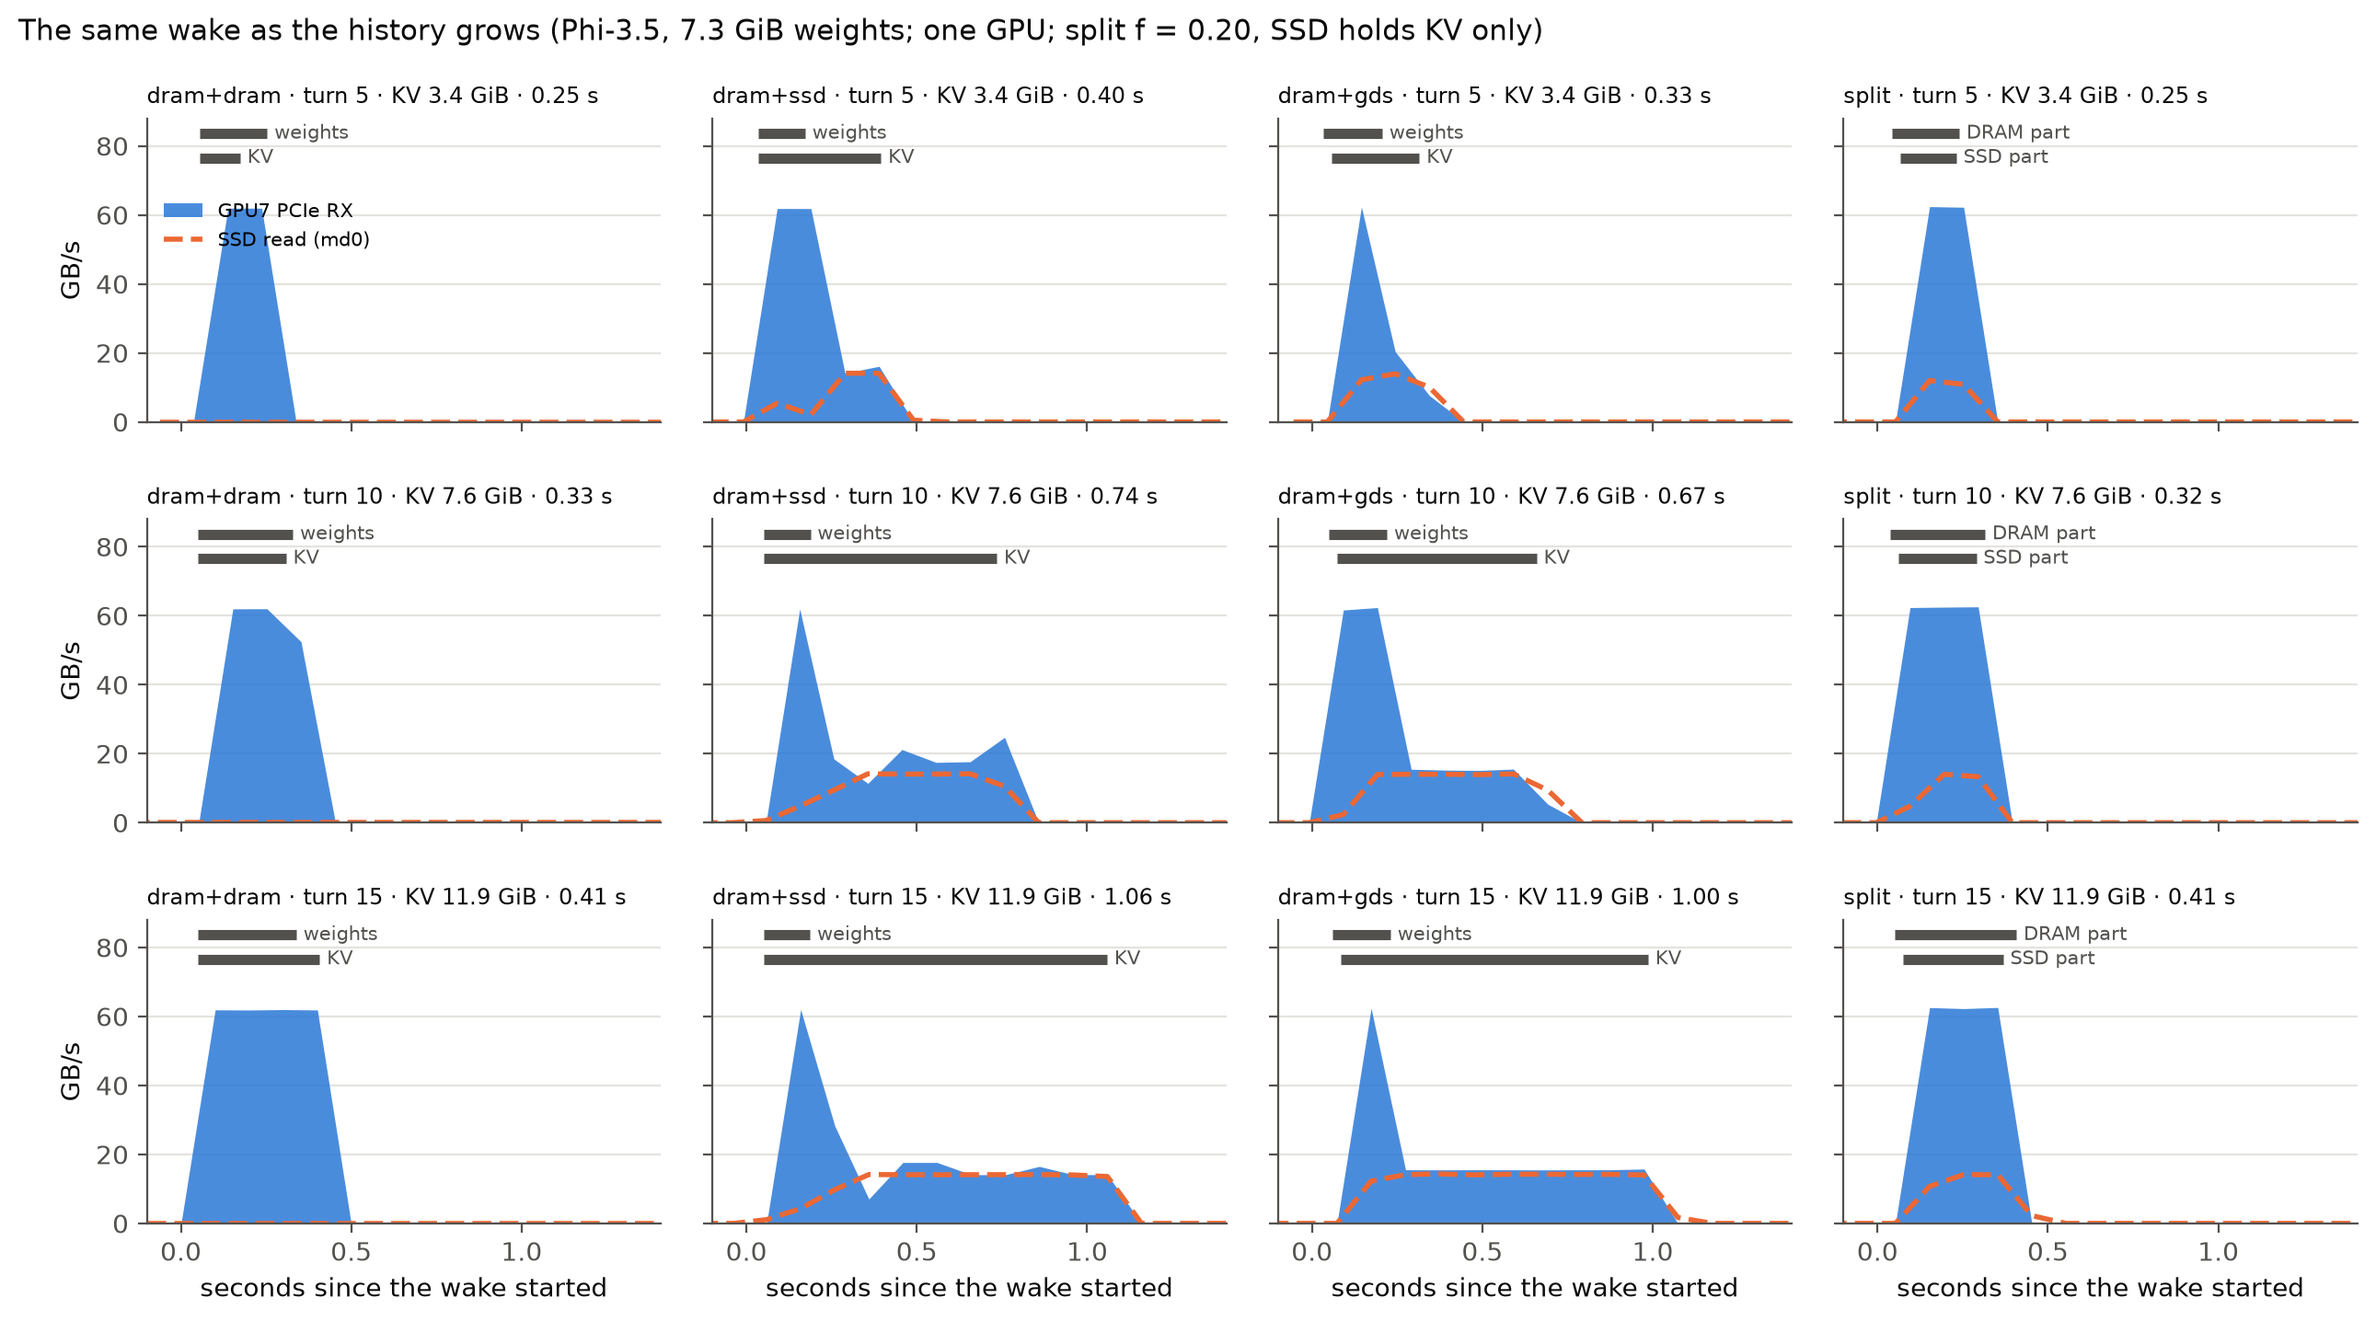
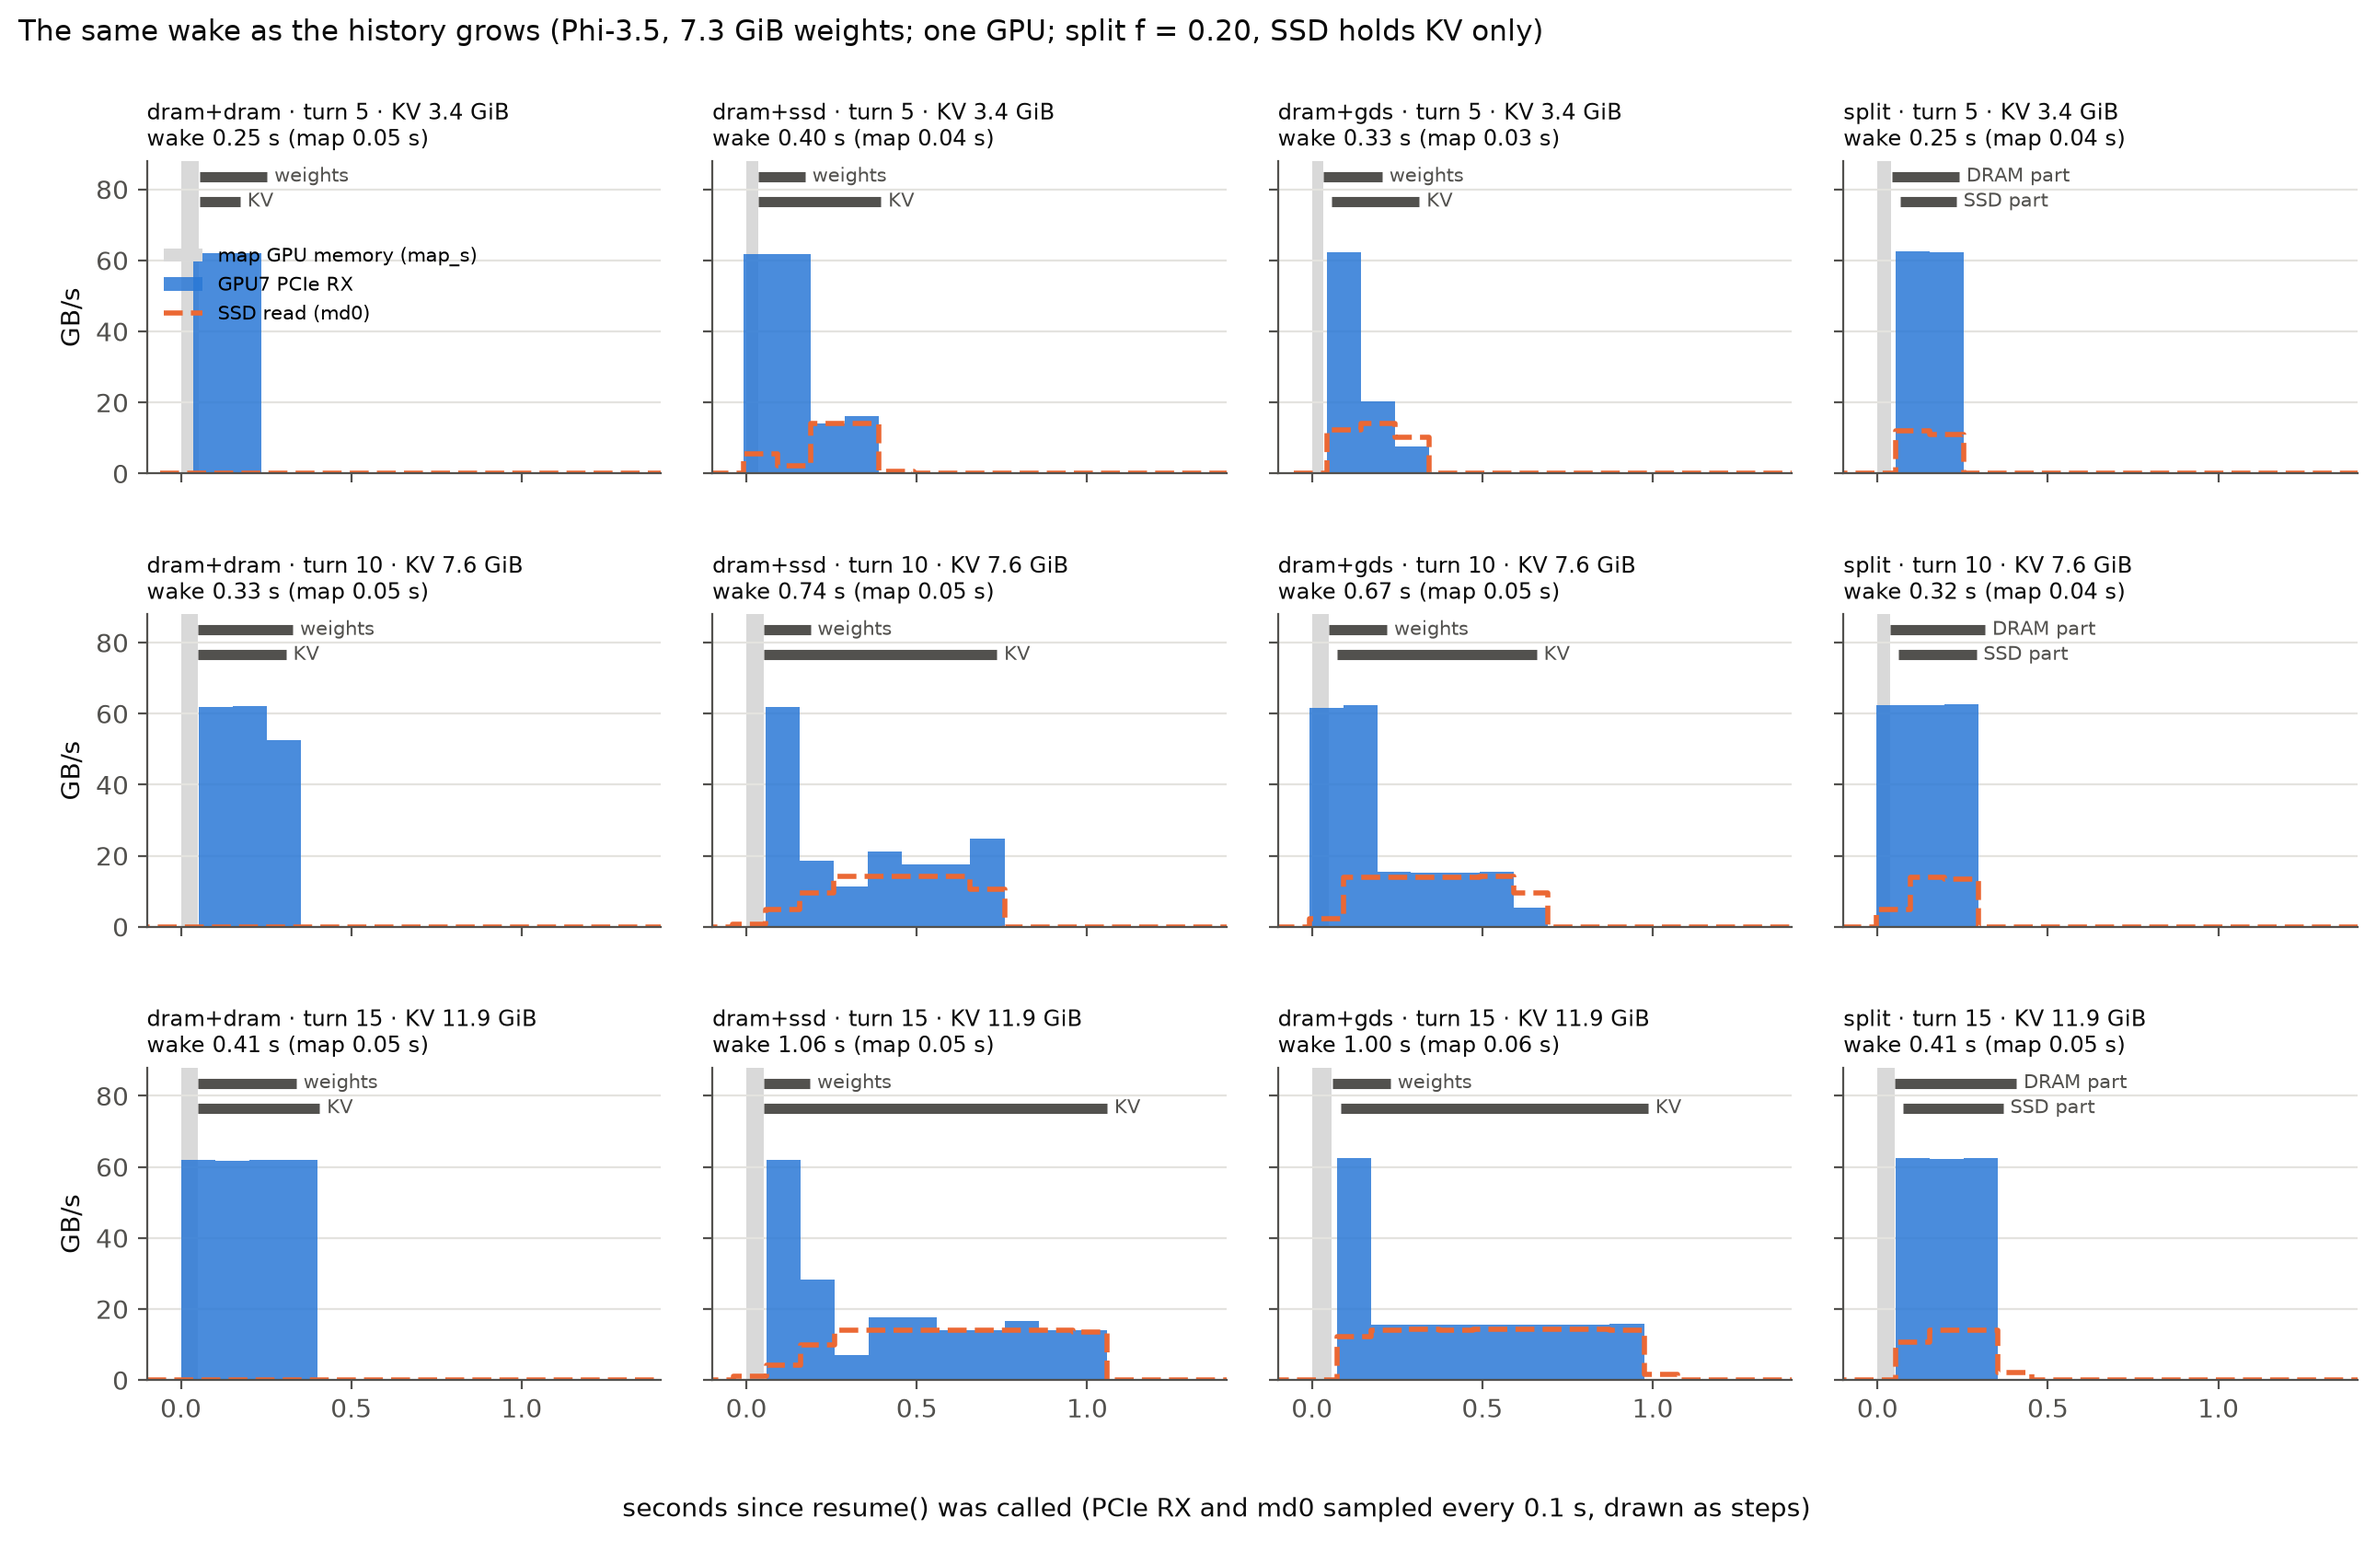
Single-GPU B2 figures: step-drawn traces and the map_s band
PCIe RX and md0 are drawn as steps over the interval before each sample
(md0 is the average over the previous 0.1 s, NVML RX over the ~20 ms
before the sample), instead of linear interpolation, which made some
wakes look as if data moved from t = 0. A grey band marks map_s
(re-creating and mapping GPU memory before any data moves); titles show
wake and map times on two lines, and the x label is shared.

diff --git a/analysis/single_gpu_figures.py b/analysis/single_gpu_figures.py
@@ -1,7 +1,10 @@
 """B2-style figure for the single-GPU experiment: the same wake as the history grows.
 
 Rows are turns, columns are paths. Each panel is GPU 7's PCIe RX (NVML) and md0 reads (pcie.csv,
-0.1 s samples) around one model's wake, with the plugin's transfer jobs as bars on top.
+0.1 s samples, drawn as steps over the interval before each sample: md0 is the average over that
+interval, NVML RX the average over the ~20 ms before the sample) around one model's wake,
+with the plugin's transfer jobs as bars on top. The grey band is map_s (re-creating and mapping the
+GPU memory before any data moves).
 Staged GDS bars end when the data stopped moving (without the staging cleanup).
 
 Also: wake time per turn for every model (single3m_wake_by_turn_<model>.png).
@@ -24,6 +27,7 @@ MODELS = [("g7_a3", "Phi-3.5", "phi35"), ("g7_a2", "Qwen3-14B", "qwen14b"), ("g7
 TURNS = [5, 10, 15]
 JOBS = {False: (("weights", "weights"), ("kv", "KV")), True: (("dram", "DRAM part"), ("ssd", "SSD part"))}
 YMAX = 88
+MAP_GREY = "#d9d9d9"
 
 
 def cell(run, inst, turn, tt, rows, t_pre=0.15, t_post=2.6):
@@ -38,13 +42,14 @@ def cell(run, inst, turn, tt, rows, t_pre=0.15, t_post=2.6):
         start = e.get(f"{key}_data_start_s", e[f"{key}_start_s"])
         jobs.append((label, start, end))
     return {"t": tt[sel] - t_ref, "rx": [float(rows[i]["gpu7_rx_mbs"]) / 1000 for i in sel],
-            "md0": [float(rows[i]["md0_read_mbs"]) / 1000 for i in sel], "jobs": jobs,
+            "md0": [float(rows[i]["md0_read_mbs"]) / 1000 for i in sel], "jobs": jobs, "map_s": e["map_s"],
             "total_s": e["total_s"], "kv_gib": e["kv_bytes"] / GIB, "weights_gib": e["weights_bytes"] / GIB}
 
 
 def panel(ax, c, xmax):
-    ax.fill_between(c["t"], c["rx"], color=SLOTS[0], alpha=.85, lw=0, label="GPU7 PCIe RX")
-    ax.plot(c["t"], c["md0"], color=SLOTS[1], lw=2, ls="--", label="SSD read (md0)")
+    ax.axvspan(0, c["map_s"], color=MAP_GREY, lw=0, zorder=0, label="map GPU memory (map_s)")
+    ax.fill_between(c["t"], c["rx"], step="pre", color=SLOTS[0], alpha=.85, lw=0, label="GPU7 PCIe RX")
+    ax.plot(c["t"], c["md0"], drawstyle="steps-pre", color=SLOTS[1], lw=2, ls="--", label="SSD read (md0)")
     for k, (label, a, b) in enumerate(c["jobs"]):
         y = YMAX * (0.95 - 0.08 * k)
         ax.plot([a, b], [y, y], color=TEXT2, lw=4, solid_capstyle="butt")
@@ -62,26 +67,27 @@ def figure(inst, model, slug, out_dir):
         for turn in TURNS:
             data[path, turn] = cell(run, inst, turn, tt, rows)
     xmax = max(c["total_s"] for c in data.values()) + 0.35
-    fig, axes = plt.subplots(len(TURNS), len(RUNS), figsize=(15.5, 7.8), sharex=True, sharey=True,
-                             gridspec_kw={"wspace": 0.1, "hspace": 0.32})
+    fig, axes = plt.subplots(len(TURNS), len(RUNS), figsize=(15.5, 8.6), sharex=True, sharey=True,
+                             gridspec_kw={"wspace": 0.1, "hspace": 0.45})
     for i, turn in enumerate(TURNS):
         for j, (path, _) in enumerate(RUNS):
             c = data[path, turn]
             panel(axes[i, j], c, xmax)
-            axes[i, j].set_title(f"{path} · turn {turn} · KV {c['kv_gib']:.1f} GiB · {c['total_s']:.2f} s",
+            axes[i, j].set_title(f"{path} · turn {turn} · KV {c['kv_gib']:.1f} GiB\n"
+                                 f"wake {c['total_s']:.2f} s (map {c['map_s']:.2f} s)",
                                  loc="left", fontsize=8.5, color=TEXT)
         axes[i, 0].set_ylabel("GB/s")
-    for ax in axes[-1]:
-        ax.set_xlabel("seconds since the wake started")
+    fig.supxlabel("seconds since resume() was called (PCIe RX and md0 sampled every 0.1 s, drawn as steps)",
+                  fontsize=10, color=TEXT, y=0.02)
     axes[0, 0].legend(fontsize=7.5, frameon=False, loc="upper left", bbox_to_anchor=(0, 0.78))
     fig.suptitle(f"The same wake as the history grows ({model}, {data['dram+dram', 15]['weights_gib']:.1f} GiB weights; "
-                 "one GPU; split f = 0.20, SSD holds KV only)", x=0.08, ha="left", fontsize=11, color=TEXT, y=0.95)
+                 "one GPU; split f = 0.20, SSD holds KV only)", x=0.08, ha="left", fontsize=11, color=TEXT, y=0.97)
     path = os.path.join(out_dir, f"single3m_B2_{slug}.png")
     fig.savefig(path)
     plt.close(fig)
     print(path)
     for (p, t), c in data.items():
-        print(f"  {p:10s} turn {t:2d} KV {c['kv_gib']:5.1f} wake {c['total_s']:.2f} s  "
+        print(f"  {p:10s} turn {t:2d} KV {c['kv_gib']:5.1f} wake {c['total_s']:.2f} s map {c['map_s']:.3f}  "
               + "  ".join(f"{l} {a:.2f}-{b:.2f}" for l, a, b in c["jobs"]))
 
 
